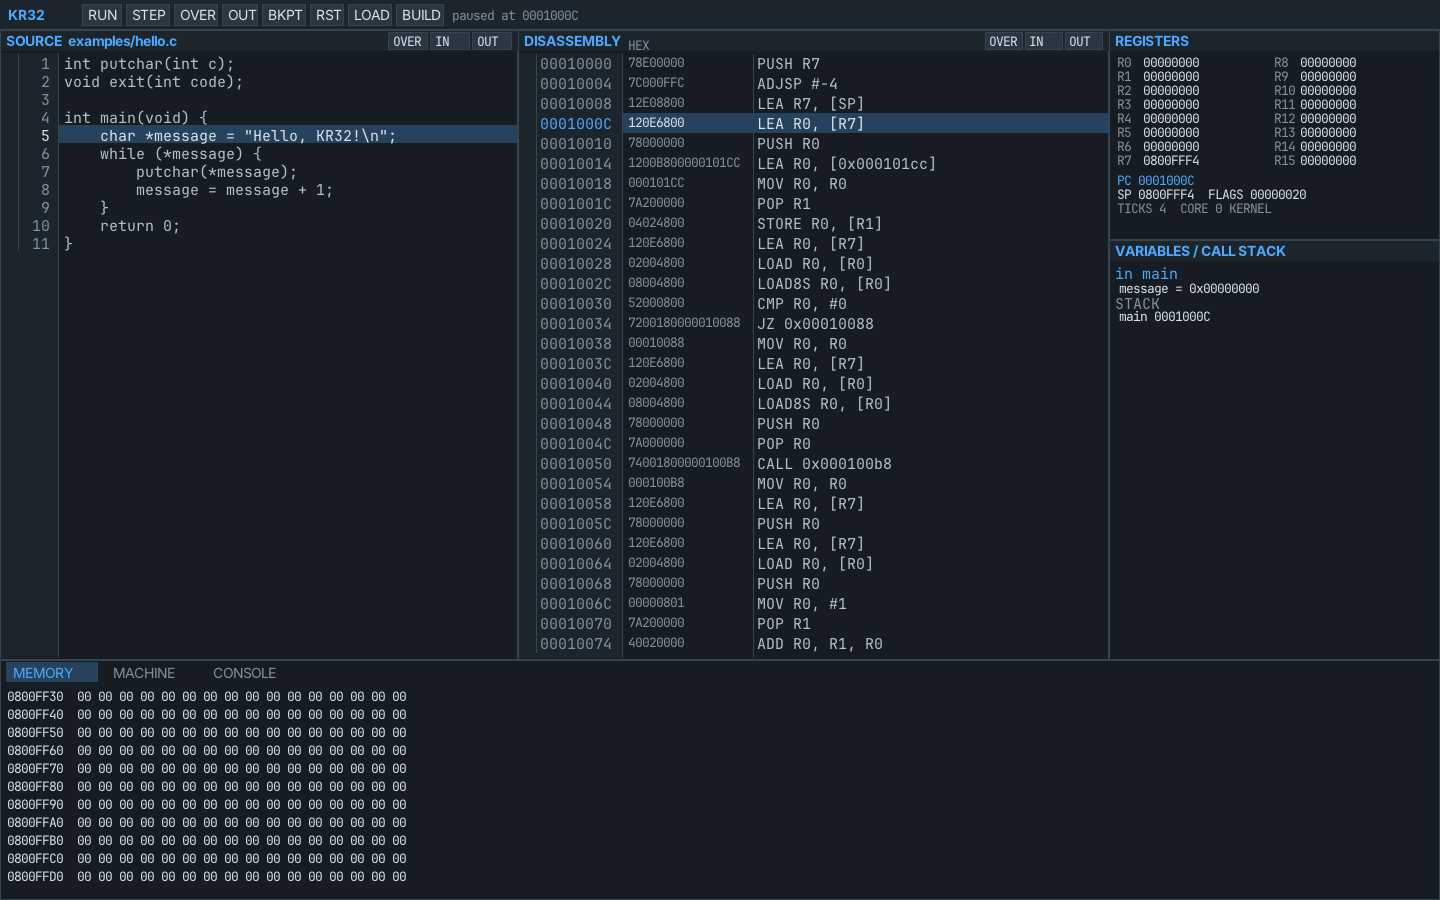
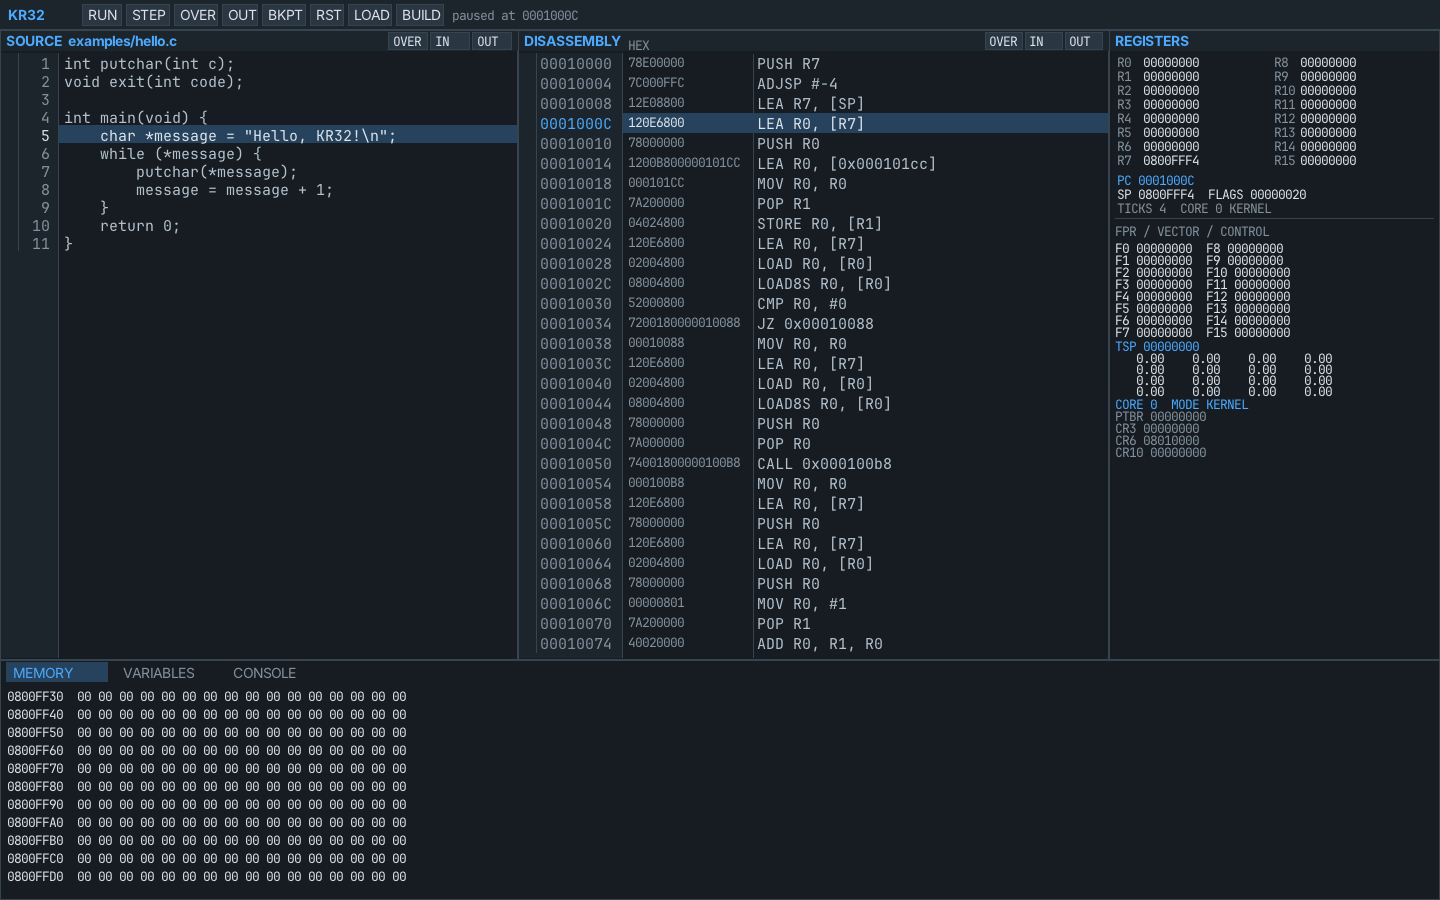
UI: group machine registers and move variables to bottom tab

Changed region(s): [[0.75, 0.2489, 0.9375, 0.5289], [0.0625, 0.7156, 0.125, 0.7778], [0.1562, 0.7467, 0.1875, 0.7778]]

diff --git a/src/ui/debugger_ui.cpp b/src/ui/debugger_ui.cpp
@@ -592,11 +592,20 @@ void DebuggerUI::draw_registers(Canvas& canvas, Rect rect) {
                     std::to_string(machine.core_id()) +
                     (machine.kernel_mode() ? " KERNEL" : " USER"),
                 kDim, FontRole::MonoSmall);
+
+    const int section_y = y + 46;
+    if (section_y < rect.y + rect.height - 20) {
+        canvas.fill(Rect{rect.x + 6, section_y, rect.width - 12, 1}, kBorder);
+        canvas.text(rect.x + 6, section_y + 5, "FPR / VECTOR / CONTROL", kDim,
+                    FontRole::MonoSmall);
+        draw_machine(canvas,
+                     Rect{rect.x, section_y + 18, rect.width,
+                          std::max(0, rect.y + rect.height - section_y - 18)});
+    }
 }
 
 void DebuggerUI::draw_variables(Canvas& canvas, Rect rect) {
-    draw_panel(canvas, rect, "VARIABLES / CALL STACK");
-    int y = rect.y + 24;
+    int y = rect.y + 4;
     const debug::Function* function = session_.function_at(session_.machine().pc());
     if (function != nullptr) {
         canvas.text(rect.x + 6, y, "in " + function->name, kAccent);
@@ -742,11 +751,12 @@ void DebuggerUI::draw_console(Canvas& canvas, Rect rect) {
 void DebuggerUI::draw_bottom(Canvas& canvas, Rect rect) {
     canvas.fill(rect, kPanel);
     canvas.frame(rect, kBorder);
-    const char* labels[] = {"MEMORY", "MACHINE", "CONSOLE"};
+    const char* labels[] = {"MEMORY", "VARIABLES", "CONSOLE"};
+    constexpr int kTabWidth = 110;
     for (int index = 0; index < 3; ++index) {
-        const int x = rect.x + 6 + index * 100;
+        const int x = rect.x + 6 + index * kTabWidth;
         if (static_cast<int>(tab_) == index) {
-            canvas.fill(Rect{x, rect.y + 2, 92, 20}, Color{38, 66, 92, 255});
+            canvas.fill(Rect{x, rect.y + 2, kTabWidth - 8, 20}, Color{38, 66, 92, 255});
         }
         canvas.text(x + 7, rect.y + 5, labels[index],
                     static_cast<int>(tab_) == index ? kAccent : kDim, FontRole::Ui);
@@ -754,8 +764,8 @@ void DebuggerUI::draw_bottom(Canvas& canvas, Rect rect) {
     const Rect content{rect.x + 1, rect.y + 24, rect.width - 2, rect.height - 25};
     if (tab_ == Tab::Memory) {
         draw_memory(canvas, content);
-    } else if (tab_ == Tab::Machine) {
-        draw_machine(canvas, content);
+    } else if (tab_ == Tab::Variables) {
+        draw_variables(canvas, content);
     } else {
         draw_console(canvas, content);
     }
@@ -772,16 +782,12 @@ DebuggerUI::Layout DebuggerUI::layout(int width, int height) const {
     const int bottom_height = std::clamp(height / 3, 170, 240);
     const int bottom_top = height - bottom_height;
     const int top_height = bottom_top - kToolbarHeight;
-    int registers_height = std::clamp(top_height / 3, 190, 220);
 
     Layout result;
     result.source = Rect{0, kToolbarHeight, source_width, top_height};
     result.disassembly = Rect{source_width, kToolbarHeight, disassembly_width, top_height};
-    result.registers =
-        Rect{source_width + disassembly_width, kToolbarHeight, right_width, registers_height};
-    result.variables = Rect{source_width + disassembly_width,
-                            kToolbarHeight + registers_height, right_width,
-                            top_height - registers_height};
+    result.registers = Rect{source_width + disassembly_width, kToolbarHeight, right_width,
+                            top_height};
     result.bottom = Rect{0, bottom_top, width, bottom_height};
     return result;
 }
@@ -1053,7 +1059,6 @@ void DebuggerUI::render(Canvas& canvas) {
     draw_source(canvas, areas.source);
     draw_disassembly(canvas, areas.disassembly);
     draw_registers(canvas, areas.registers);
-    draw_variables(canvas, areas.variables);
     draw_bottom(canvas, areas.bottom);
     draw_error(canvas);
     draw_asm_tooltip(canvas);
@@ -1097,11 +1102,11 @@ bool DebuggerUI::click(int x, int y, int width, int height) {
         return true;
     }
     if (y >= areas.bottom.y + 2 && y < areas.bottom.y + 22) {
-        if (x < areas.bottom.x + 106) {
+        if (x < areas.bottom.x + 116) {
             tab_ = Tab::Memory;
-        } else if (x < areas.bottom.x + 206) {
-            tab_ = Tab::Machine;
-        } else if (x < areas.bottom.x + 306) {
+        } else if (x < areas.bottom.x + 226) {
+            tab_ = Tab::Variables;
+        } else if (x < areas.bottom.x + 336) {
             tab_ = Tab::Console;
         }
         return true;
@@ -1199,17 +1204,17 @@ bool DebuggerUI::headless(const std::string& ppm_path) {
         return false;
     }
 
-    tab_ = Tab::Machine;
+    tab_ = Tab::Variables;
     render(canvas);
-    const std::uint64_t machine_hash = canvas.hash();
+    const std::uint64_t variables_hash = canvas.hash();
     if (!ppm_path.empty()) {
-        std::string machine_path = ppm_path;
-        const std::size_t dot = machine_path.find_last_of('.');
+        std::string variables_path = ppm_path;
+        const std::size_t dot = variables_path.find_last_of('.');
         if (dot != std::string::npos) {
-            machine_path.insert(dot, "-machine");
+            variables_path.insert(dot, "-variables");
         }
-        if (!canvas.write_ppm(machine_path)) {
-            error_ = "cannot write " + machine_path;
+        if (!canvas.write_ppm(variables_path)) {
+            error_ = "cannot write " + variables_path;
             return false;
         }
     }
@@ -1218,9 +1223,9 @@ bool DebuggerUI::headless(const std::string& ppm_path) {
     render(canvas);
     const std::uint64_t console_hash = canvas.hash();
     tab_ = original_tab;
-    std::printf("ui-render width=%d height=%d hash=%016llX machine=%016llX console=%016llX\n",
+    std::printf("ui-render width=%d height=%d hash=%016llX variables=%016llX console=%016llX\n",
                 canvas.width(), canvas.height(), static_cast<unsigned long long>(memory_hash),
-                static_cast<unsigned long long>(machine_hash),
+                static_cast<unsigned long long>(variables_hash),
                 static_cast<unsigned long long>(console_hash));
     return true;
 }

diff --git a/include/kr32/ui/debugger_ui.h b/include/kr32/ui/debugger_ui.h
@@ -38,11 +38,10 @@ private:
         Rect source;
         Rect disassembly;
         Rect registers;
-        Rect variables;
         Rect bottom;
     };
 
-    enum class Tab { Memory, Machine, Console };
+    enum class Tab { Memory, Variables, Console };
 
     [[nodiscard]] Layout layout(int width, int height) const;
     void set_status_from_result(const core::StepResult& result);

diff --git a/docs/ui.md b/docs/ui.md
@@ -8,7 +8,7 @@ executables load directly.
 
 ![KR32 HEX column](screenshots/m6-hex.png)
 
-![KR32 machine panel](screenshots/m6-machine.png)
+![KR32 variables / call stack](screenshots/m6-variables.png)
 
 ![KR32 gutter menu](screenshots/m6-gutter-menu.png)
 
@@ -44,10 +44,15 @@ executables load directly.
 | Toolbar | Run, Step, Over, Out, Breakpoint, Reset, Load, Build, status, counters |
 | Source | Gutter with line numbers and breakpoint squares, source text, current-line highlight, line-step Over/In/Out |
 | Disassembly | Address/breakpoint gutter, HEX word column, mnemonics, current-PC highlight, instruction-step Over/In/Out |
-| Registers | R0-R15, PC, SP, FLAGS, mode, ticks, core |
+| Registers | R0-R15, PC/SP/FLAGS, ticks/core, F0-F15, TSP and T0 tile, PTBR/PTE, control registers |
 | Variables | Locals, globals/watch values, call stack |
-| Bottom tabs | Memory hex dump, machine state, console |
-| Machine tab | FPRs, T0 4x4 tile, PTBR/page table entries, control registers, TSP, core/mode |
+| Bottom tabs | Memory hex dump, Variables/Call stack, Console |
+
+The right-hand **REGISTERS** panel groups all register state: the 16 GPRs,
+PC/SP/FLAGS, F0-F15, TSP, the T0 tile, paging registers, and control registers.
+The bottom tabs are **MEMORY**, **VARIABLES**, and **CONSOLE**; the former
+MACHINE tab's contents now live under REGISTERS, while variables and the call
+stack moved into the VARIABLES tab.
 
 ## Gutter behavior
 

diff --git a/implementation.md b/implementation.md
@@ -3,7 +3,7 @@
 > **Status:** active. This file is the working checklist, milestone gate, dependency
 > record, and running log for KR32.
 >
-> **Last updated:** 2026-11-02 08:30 -08:00
+> **Last updated:** 2026-11-02 08:39 -08:00
 >
 > **Related:** [KR32-plan.md](KR32-plan.md) (architecture and decisions),
 > [docs/isa-v1.md](docs/isa-v1.md) (encoding), [kr16-final-plan.md](kr16-final-plan.md)
@@ -837,6 +837,11 @@ Newest entries at the bottom. Use the local time zone.
       1024/1440 layout. Changed the initial window and headless surface to
       1440x900 so source, HEX, and mnemonic columns have room; narrow layouts
       switch the source pane to the 13 px mono role.
+- **2026-11-02 08:39 -08:00** — Grouped all register state into the REGISTERS
+      panel: GPRs, PC/SP/FLAGS, F0-F15, TSP/T0, PTBR/PTE, and control registers.
+      Replaced the bottom MACHINE tab with VARIABLES, which now hosts locals,
+      globals/watch values, and the call stack. Updated headless output,
+      screenshots, and docs.
 
 ## 10. Updating this file
 

diff --git a/README.md b/README.md
@@ -14,7 +14,8 @@ cluster, IPIs, and LL/SC spinlock runs are implemented. The debugger opens at
 1440x900 and uses embedded Inter and JetBrains Mono fonts, separate source-line
 and instruction stepping controls, responsive resizing, KR16-style gutters with
 breakpoint toggles and a Run to line/address context menu, a HEX word column,
-and disassembly hover help for instructions and addressing modes. See
+disassembly hover help for instructions and addressing modes, and a grouped
+REGISTERS panel with variables in a bottom tab. See
 [docs/devices.md](docs/devices.md) and [docs/ui.md](docs/ui.md). The C++
 toolchain is the remaining planned milestone.
 
